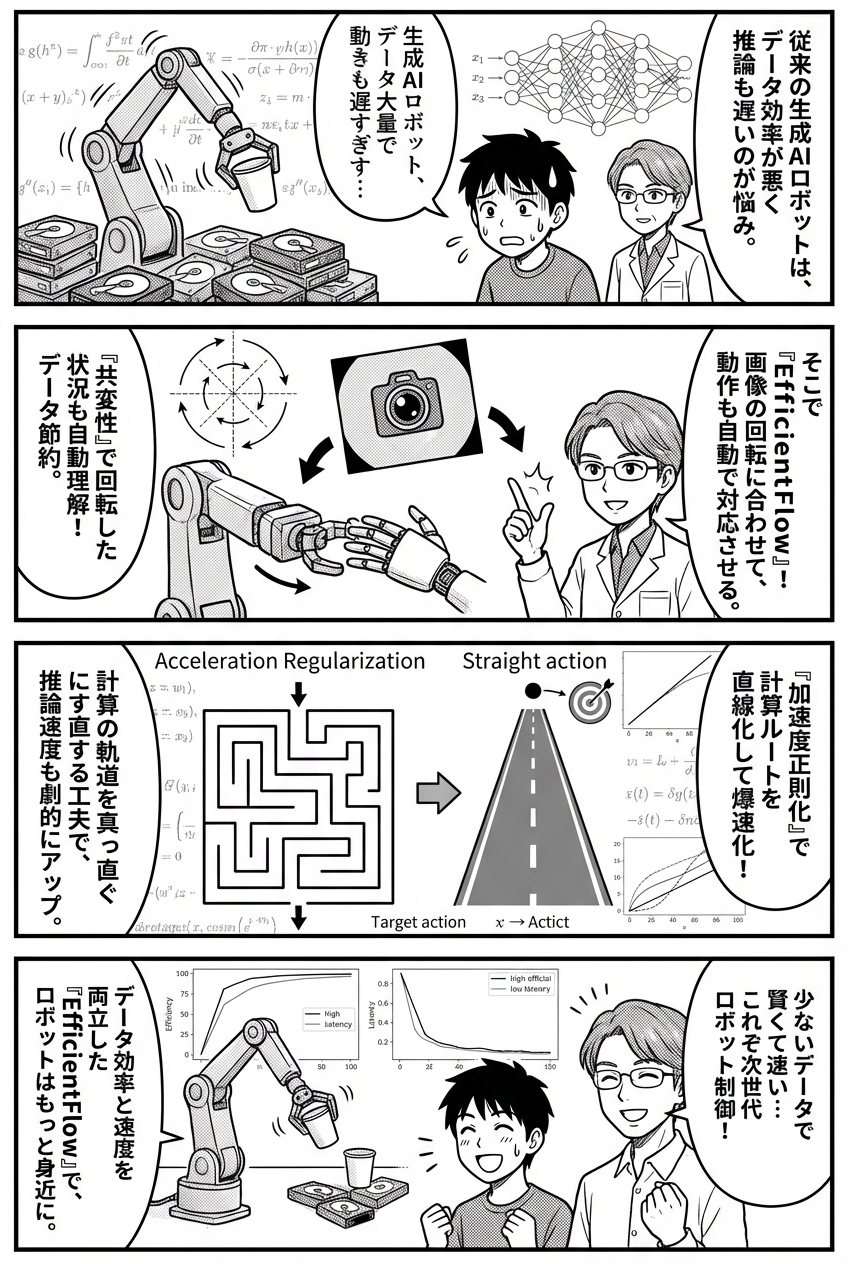
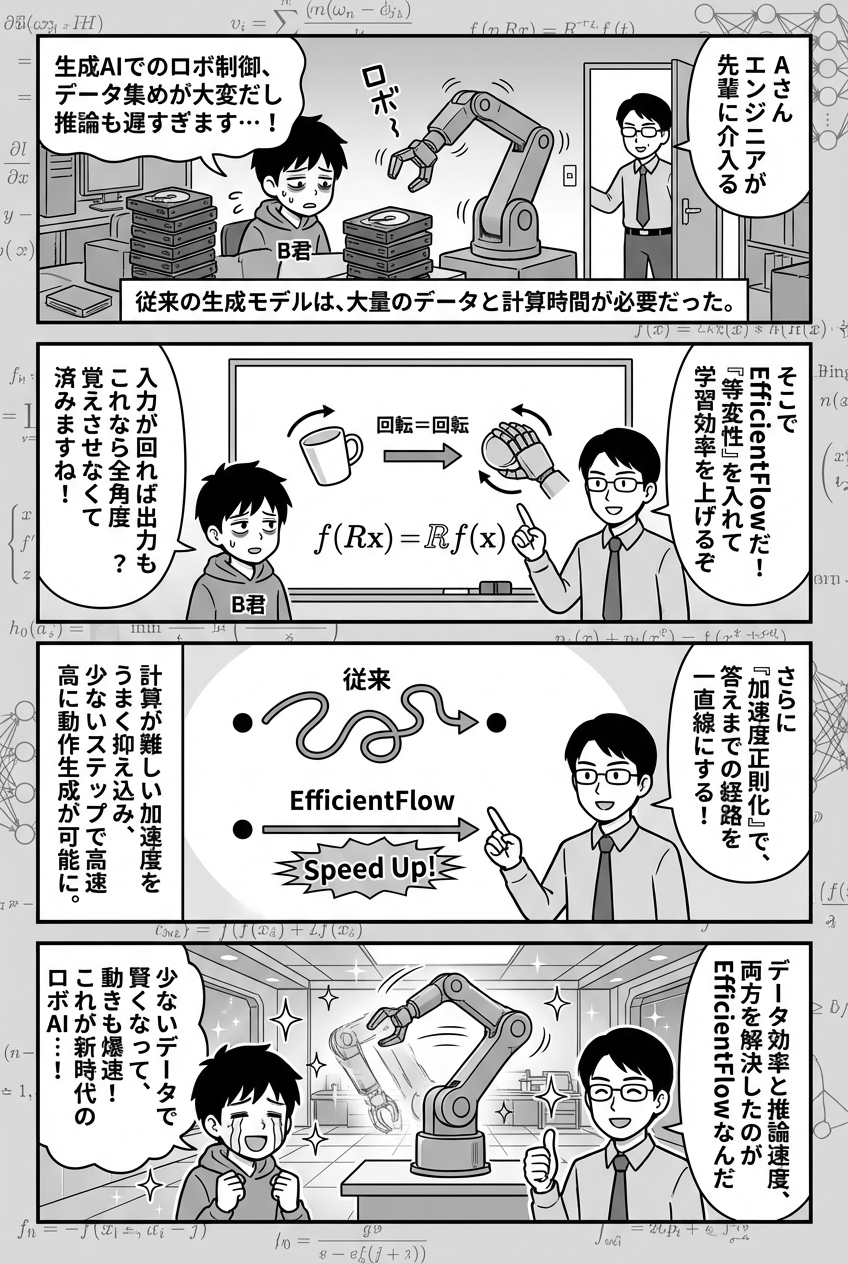
Add auto manga article for 2512.02020v1

diff --git a/articles/2025-12-03-arxiv-2512-02020v1.md b/articles/2025-12-03-arxiv-2512-02020v1.md
@@ -27,61 +27,55 @@ published: true
 
 以下は、画像生成に用いた脚本（LLM による自動生成）です。一部、画像化の過程で省略・簡略化されている場合があります。
 
-論文『EfficientFlow: Efficient Equivariant Flow Policy Learning for Embodied AI』の解説漫画脚本です。
+論文「EfficientFlow: Efficient Equivariant Flow Policy Learning for Embodied AI」の解説漫画脚本です。
 
 ---
 
-## タイトル：ロボット制御の革命児？『EfficientFlow』
+### 第1コマ：生成AIロボットの悩み
 
-### 1コマ目
-**【状況】**
-大量のHDD（学習データ）に埋もれながら、ロボットアームがカクカクと遅い動きでコップを掴もうとしている。
-汗をかいて困っている新人エンジニア（B）と、それを見ている先輩エンジニア（A）。
+*   **状況描写**
+    *   背景：ロボット工学の研究室。
+    *   キャラクター：
+        *   **新人エンジニア（B君）**：目の下にクマを作り、大量のHDDと遅いロボットの前で絶望している。
+        *   **先輩エンジニア（Aさん）**：颯爽と現れる。
+    *   ロボットのアームが、カクカクと悩みながら動いている様子。
+*   **セリフ（B君）**
+    「生成AIでのロボ制御、データ集めが大変だし推論も遅すぎます…！」
+*   **ナレーション**
+    従来の生成モデルによるロボット制御は、大量のデータと計算時間が必要だった。
 
-**【セリフ】**
-新人B「生成AIロボット、賢いけど学習データが大量に要るし、動き出すのも遅すぎます…」
+### 第2コマ：回転の法則（等変性）でデータ節約
 
-**【ナレーション】**
-従来の生成AIロボットは、データ効率が悪く、計算（推論）も遅いのが悩み。
+*   **状況描写**
+    *   Aさんがホワイトボードで図解する。
+    *   図解：コップが回転すると、それを掴むロボットの手の角度も一緒に回転しているイラスト。
+    *   数式っぽさ：$f(Rx) = R f(x)$ のような雰囲気を「回転＝回転」の矢印で表現。
+*   **セリフ（Aさん）**
+    「そこで**EfficientFlow**だ！『等変性』を入れて学習効率を上げるぞ」
+*   **セリフ（B君）**
+    「入力が回れば出力も回る…？これなら全角度覚えさせなくて済みますね！」
 
----
+### 第3コマ：迷わず進め！加速度正則化
 
-### 2コマ目
-**【状況】**
-先輩Aが指をパチンと鳴らすと、ロボットの視界（カメラ映像）が回転する。
-ロボットの手の動きも、計算なしで自然にその回転に合わせて動いているイメージ。
+*   **状況描写**
+    *   Aさんが「生成の経路（Flow）」を指差す。
+    *   「従来」の経路はグニャグニャ曲がっているが、「EfficientFlow」の経路はゴールまで一直線。
+    *   直線の矢印に「Speed Up!」のエフェクト。
+*   **セリフ（Aさん）**
+    「さらに『加速度正則化』で、答えまでの経路を一直線にする！」
+*   **ナレーション**
+    計算が難しい加速度をうまく抑え込み、少ないステップで高速に動作生成が可能に。
 
-**【セリフ】**
-先輩A「そこで『EfficientFlow』！画像の回転に合わせて、動作も自動で対応させるんだ」
+### 第4コマ：爆速・高効率な未来
 
-**【ナレーション】**
-「共変性（対称性）」を導入。１つの動きを学べば、回転した状況も自動で理解！データ節約！
-
----
-
-### 3コマ目
-**【状況】**
-これまでは「グニャグニャした迷路」を通って答え（動作）を出していたのが、
-「真っ直ぐな高速道路」を通って一瞬で答えにたどり着くイメージ図。
-
-**【セリフ】**
-先輩A「さらに『加速度正則化』で、答えまでの計算ルートを直線にして爆速化！」
-
-**【ナレーション】**
-計算の軌道を真っ直ぐにする工夫で、推論速度も劇的にアップ。
-
----
-
-### 4コマ目
-**【状況】**
-ロボットが少ないデータで学習を終え、ササッと素早くスムーズに作業をこなしている。
-喜ぶ新人Bと、ドヤ顔の先輩A。
-
-**【セリフ】**
-新人B「少ないデータで賢くて速い…これぞ次世代のロボット制御ですね！」
-
-**【ナレーション】**
-データ効率と速度を両立した『EfficientFlow』で、ロボットはもっと身近に。
+*   **状況描写**
+    *   背景：キラキラした実験室。
+    *   ロボットアームが残像が見えるほど滑らかに、素早くタスクをこなしている。
+    *   B君が感動して涙を流し、Aさんが親指を立てている。
+*   **セリフ（B君）**
+    「少ないデータで賢くなって、動きも爆速！これが新時代のロボAI…！」
+*   **セリフ（Aさん）**
+    「データ効率と推論速度、両方を解決したのがEfficientFlowなんだ」
 
 ---
 
